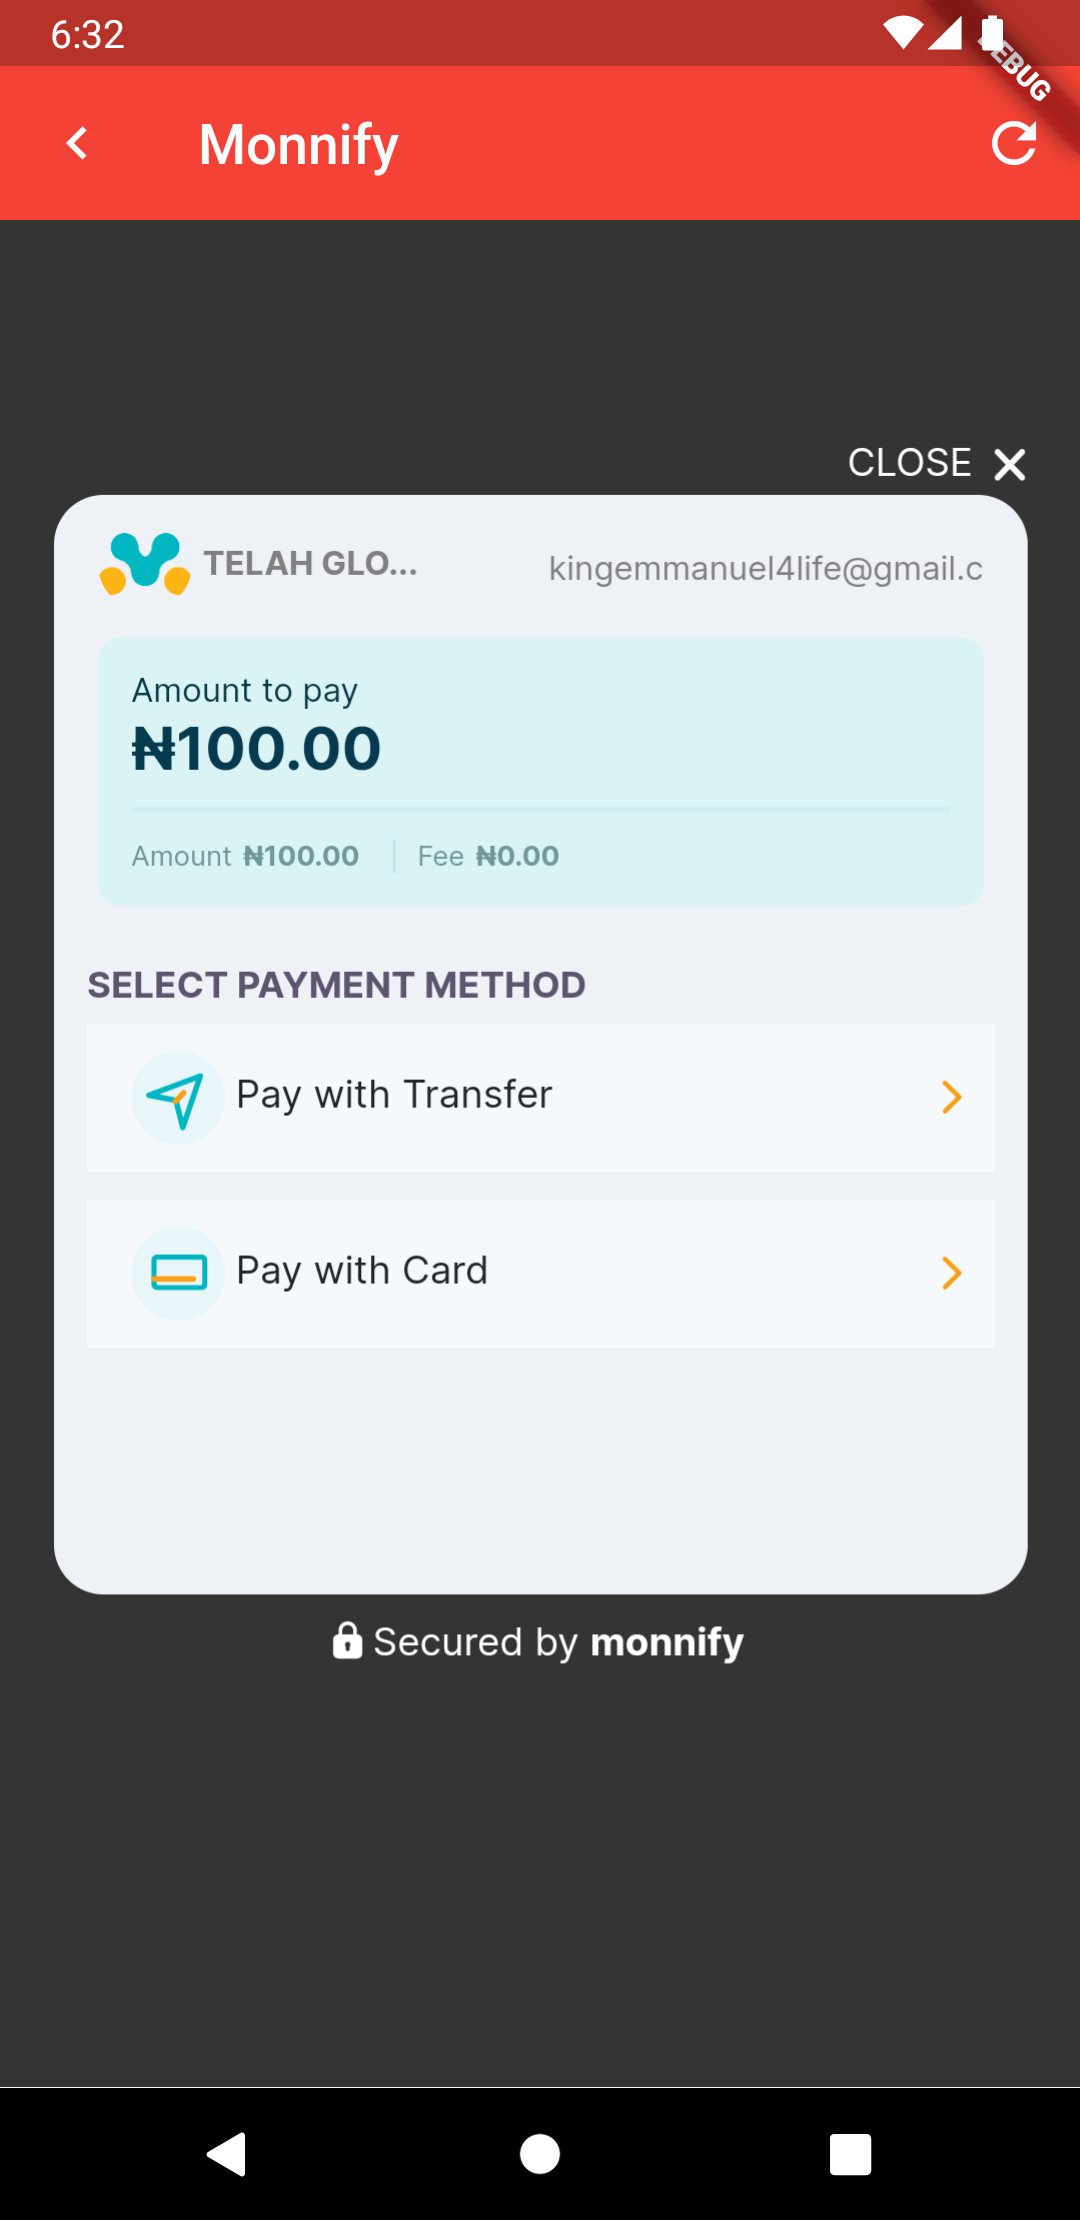
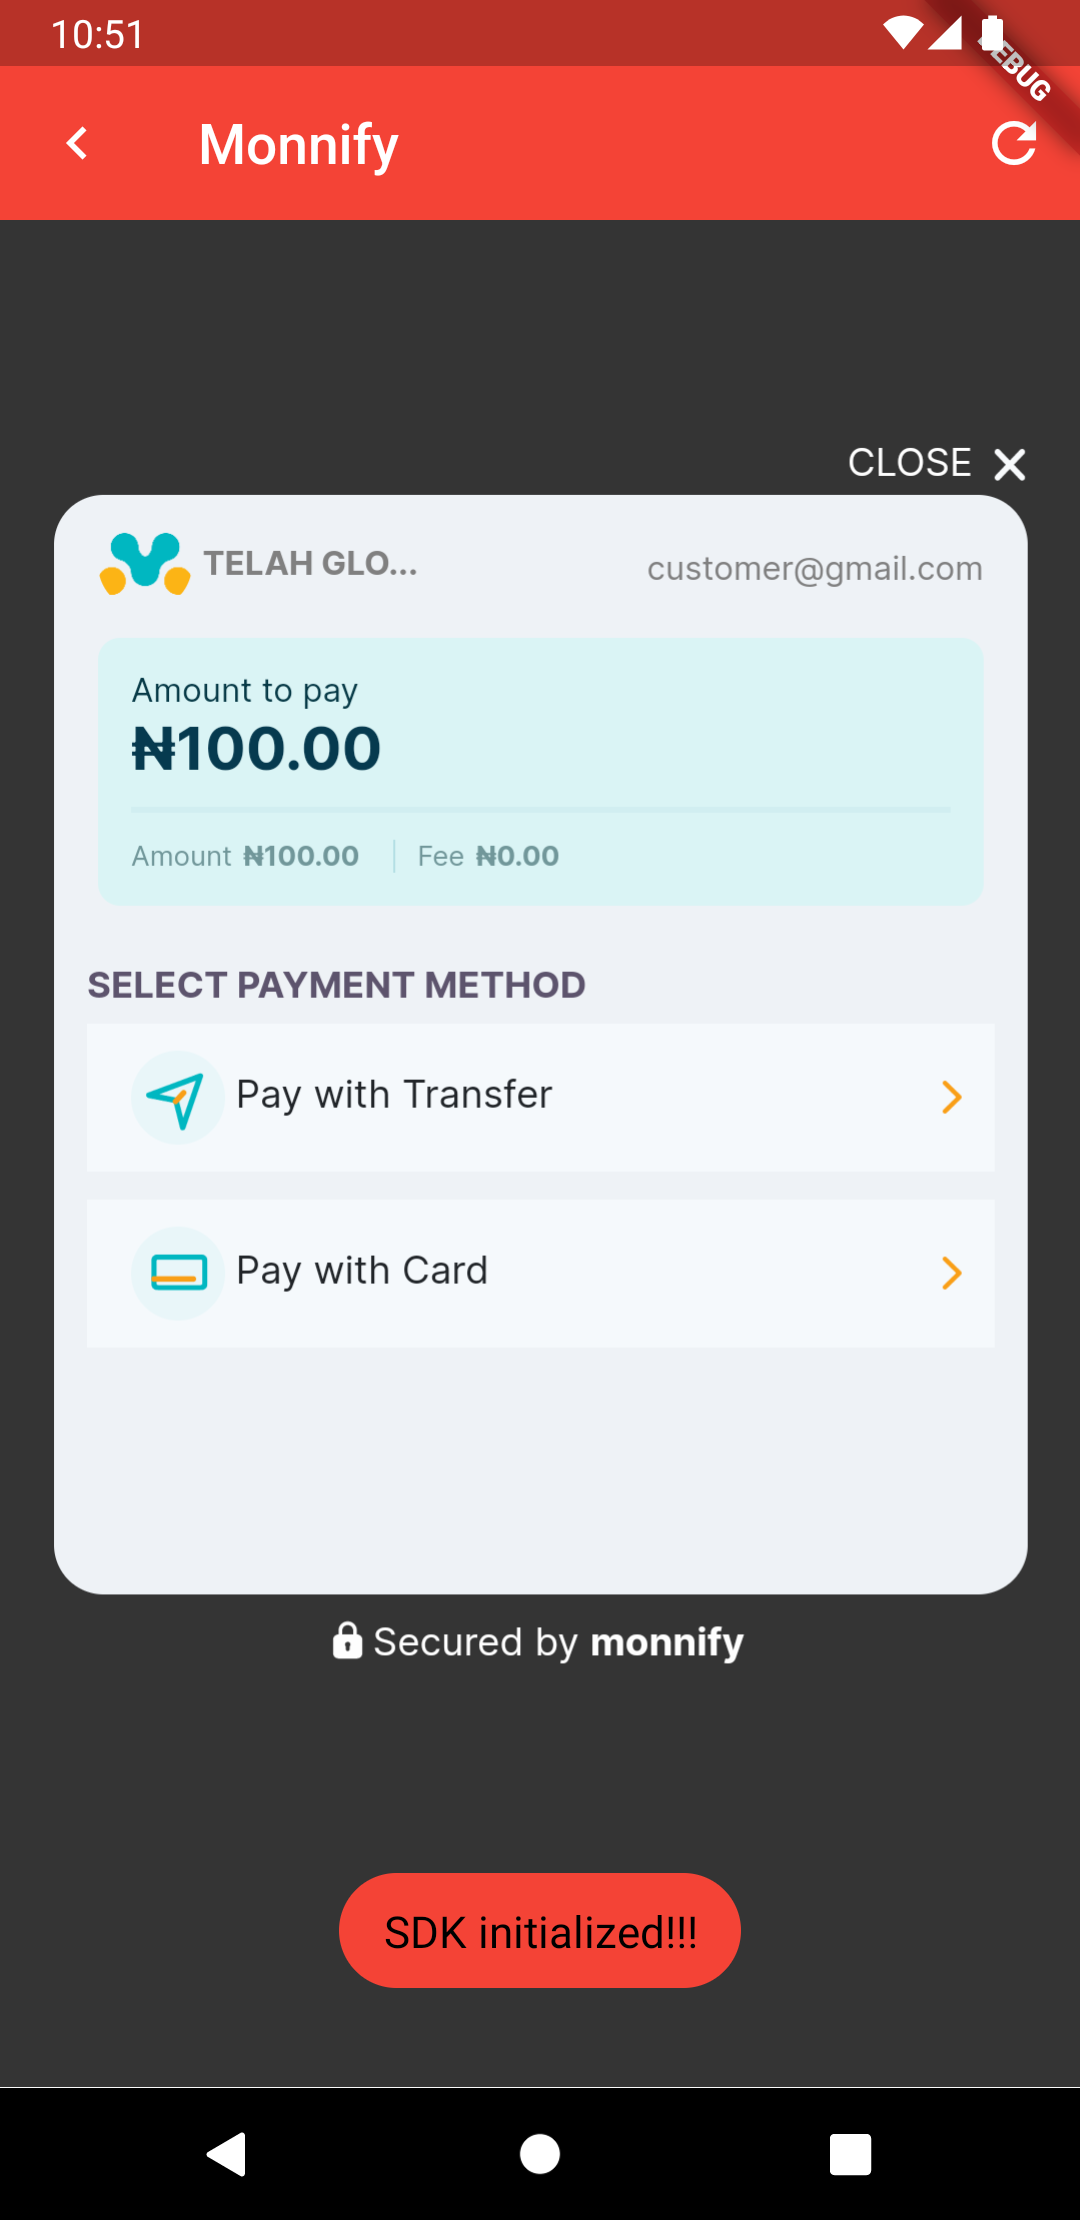
updated screenshot

Changed region(s): [[0.3056, 0.8392, 0.7028, 0.9014], [0.5194, 0.2486, 0.8861, 0.2797], [0.0306, 0.0, 0.1222, 0.0311]]

diff --git a/example/lib/main.dart b/example/lib/main.dart
@@ -64,8 +64,8 @@ class _PayWithMonnifyState extends State<PayWithMonnify> {
       "amount": 100,
       "currency": "NGN",
       "reference": DateTime.now().toIso8601String(),
-      "customerFullName": "Emmanuel Izedomi",
-      "customerEmail": "kingemmanuel4life@gmail.com",
+      "customerFullName": "John Doe",
+      "customerEmail": "customer@gmail.com",
       "apiKey": "MK_TEST_595UN92CCV",
       "contractCode": "8628159341",
       "paymentDescription": "Lahray World",

diff --git a/README.md b/README.md
@@ -100,8 +100,8 @@ class _PayWithMonnifyState extends State<PayWithMonnify> {
       "amount": 100,
       "currency": "NGN",
       "reference": DateTime.now().toIso8601String(),
-      "customerFullName": "Emmanuel Izedomi",
-      "customerEmail": "kingemmanuel4life@gmail.com",
+      "customerFullName": "John Doe",
+      "customerEmail": "customer@gmail.com",
       "apiKey": "MK_TEST_595UN92CCV",
       "contractCode": "8628159341",
       "paymentDescription": "Lahray World",

diff --git a/CHANGELOG.md b/CHANGELOG.md
@@ -1,3 +1,7 @@
 ## 0.0.1
 
-* TODO: Describe initial release.
+Initial Release.
+
+## 0.0.2
+
+Initial Release
